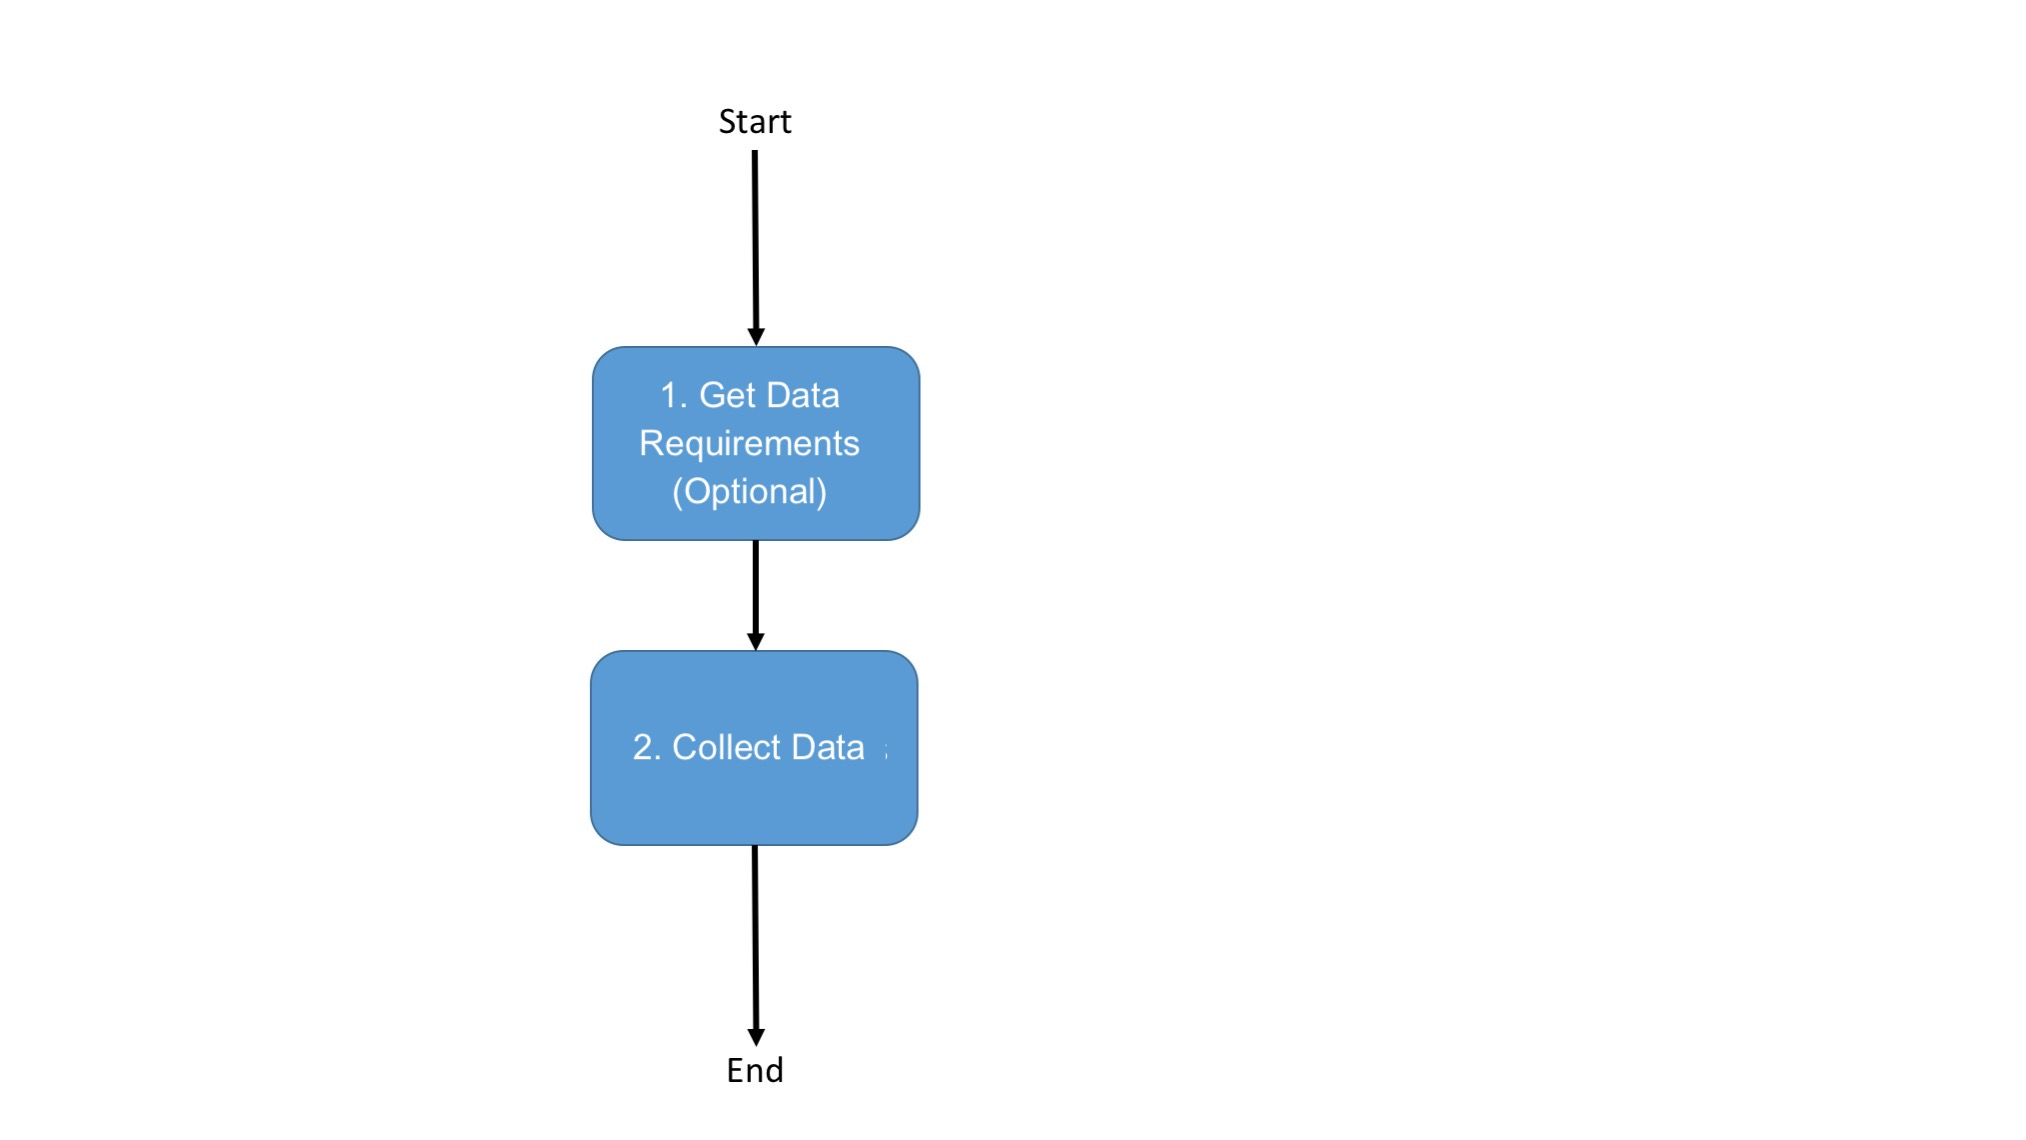
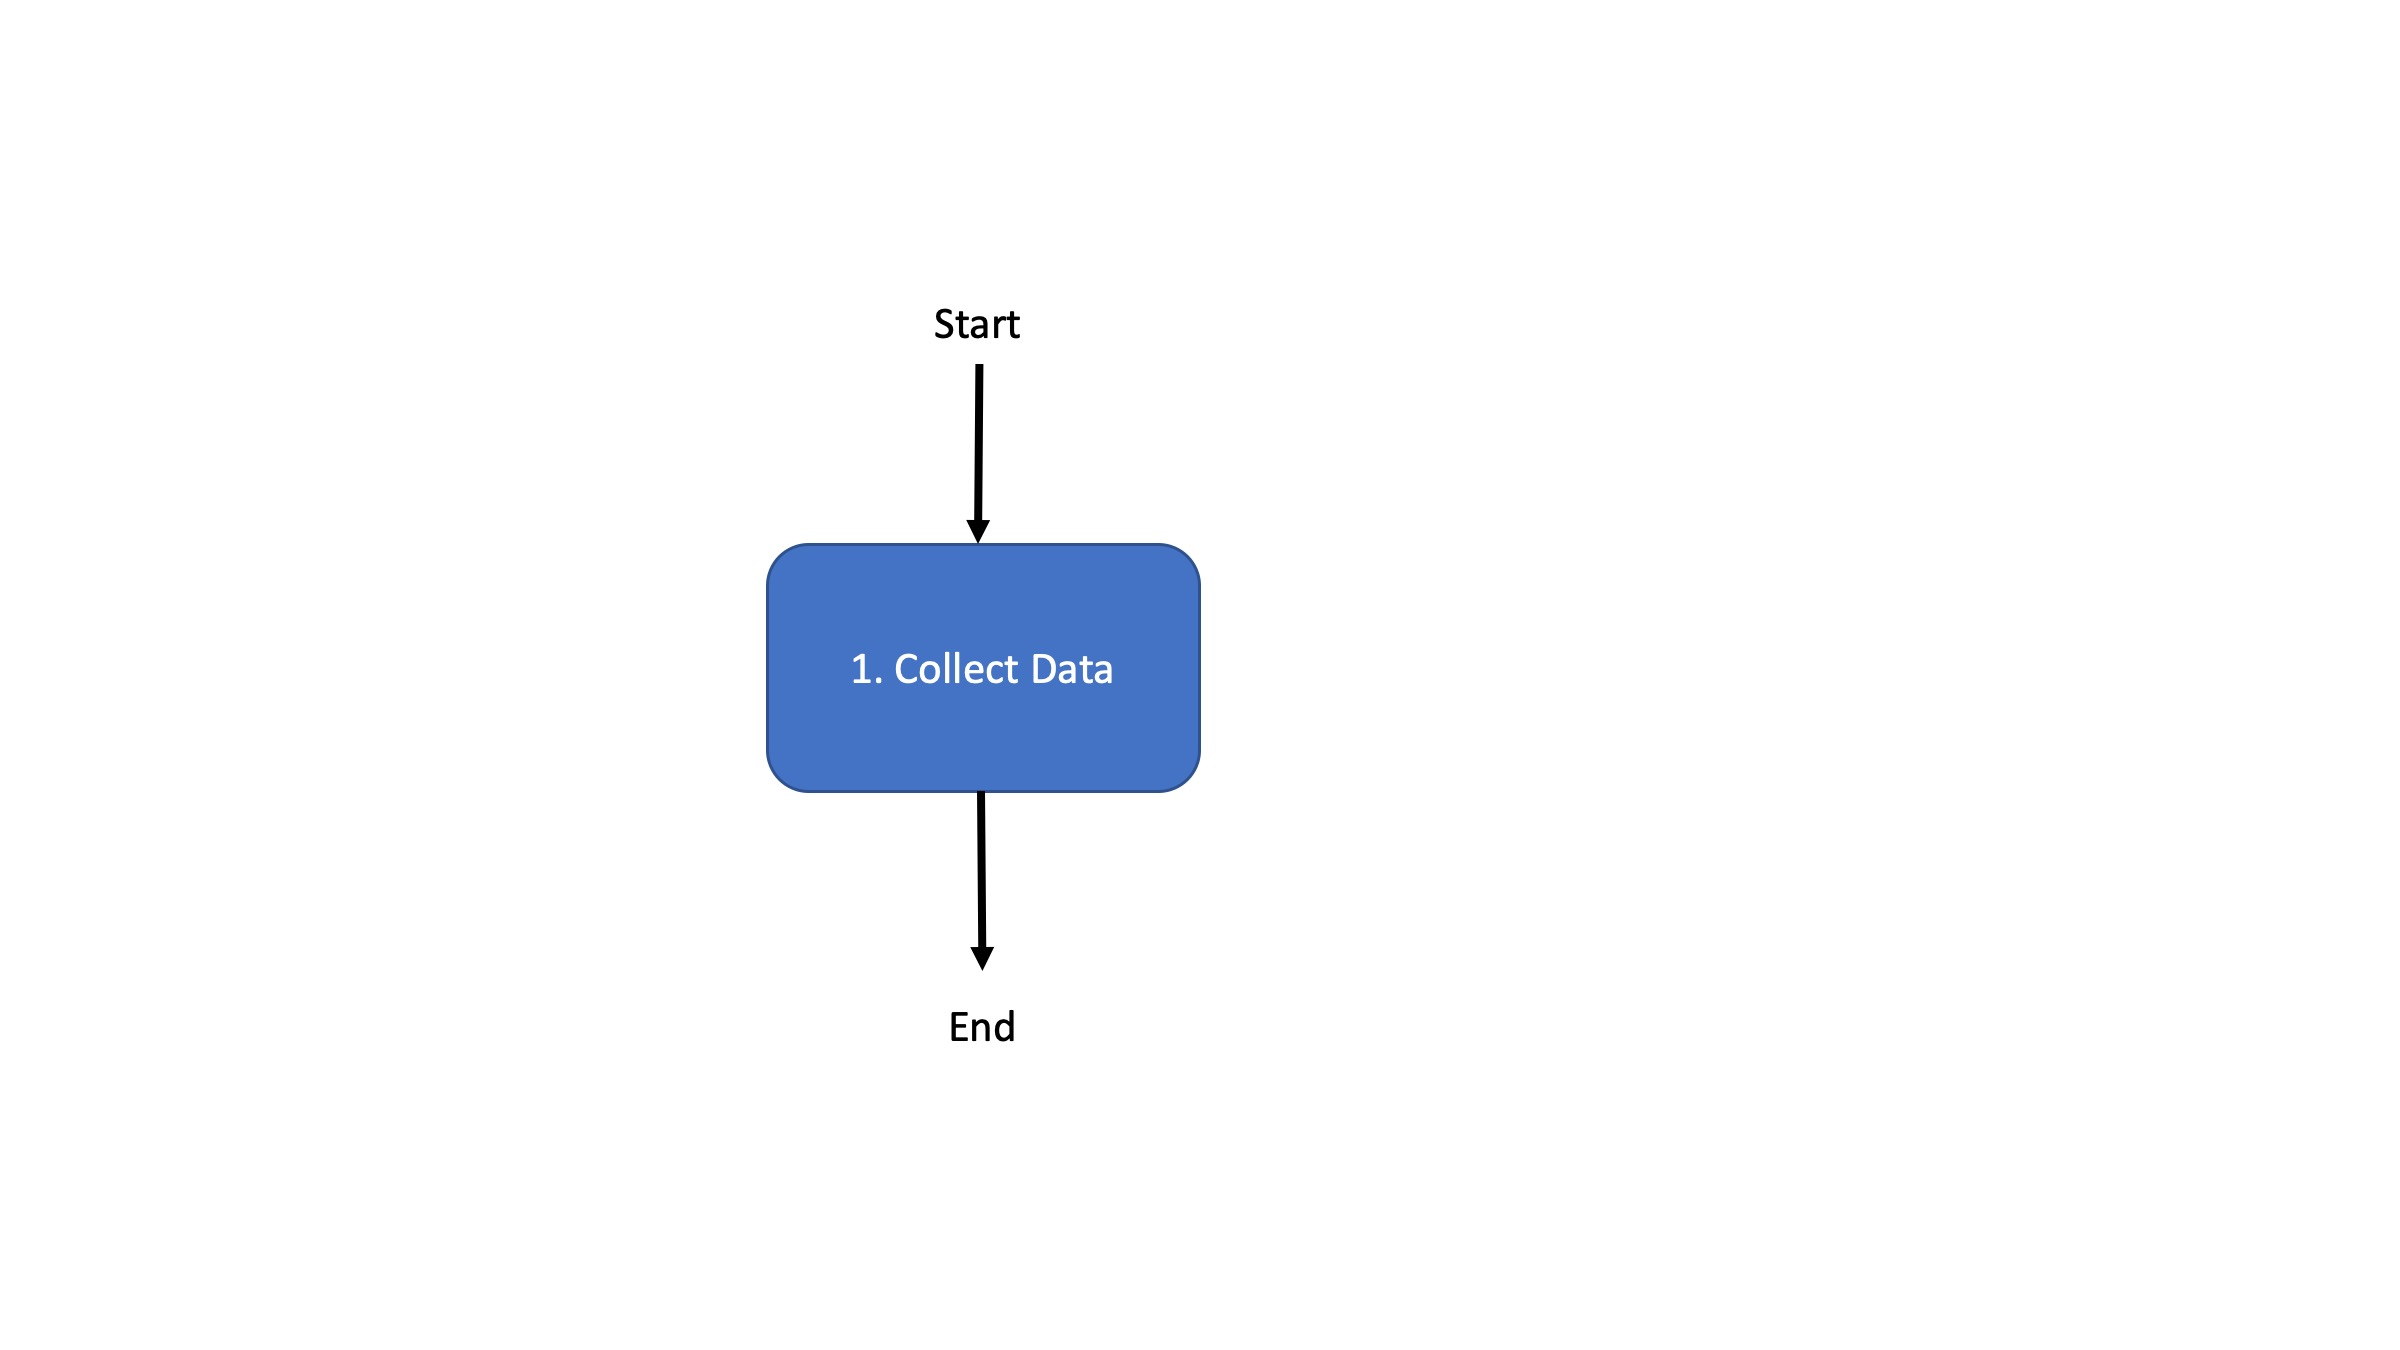
GF#21737

Changed region(s): [[0.2799, 0.2149, 0.4975, 0.7675], [0.3421, 0.9211, 0.4042, 0.9518], [0.3421, 0.0921, 0.4042, 0.1228]]

diff --git a/source/pages/datax.md b/source/pages/datax.md
@@ -126,9 +126,11 @@ For a complete un-edited example see the [MRP Submit Data Operation] example.
 ### Collect Data operation
 {: #collect-data}
 
-In this scenario, the Consumer initiates a *Collect Data* operation to gather any available CQM data for a particular measure from the Producer.  In response to the operation, the Producer returns a MeasureReport containing data relevant to the Measure. As with the Submit Data operation, there is no expectation that this MeasureReport contains all the data required to evaluate the quality measure, nor is the measure score expected to be provided.
+In this scenario, the Consumer initiates a *Collect Data* operation to gather any available CQM data for a particular measure from the Producer.  In response to the operation, the Producer returns a MeasureReport containing data relevant to the Measure. It is assumed that the Producer knows the data requirements for the measure. As with the Submit Data operation, there is no expectation that this MeasureReport contains all the data required to evaluate the quality measure, nor is the measure score expected to be provided.
 
+<!-- *****removed based on GF#21737*********
 As with the Submit Data case above, discovery of what CQM data (i.e. resources) are required is done through the *Data Requirements* operation on a Consumer's measure endpoint and the returned resources and profiles are referenced in the `MeasureReport.evaluatedResources` element.
+-->
 
 {% include img.html  img="collect-data-steps.jpg" caption = "Figure 2-5 Collect Data Steps"%}
 
